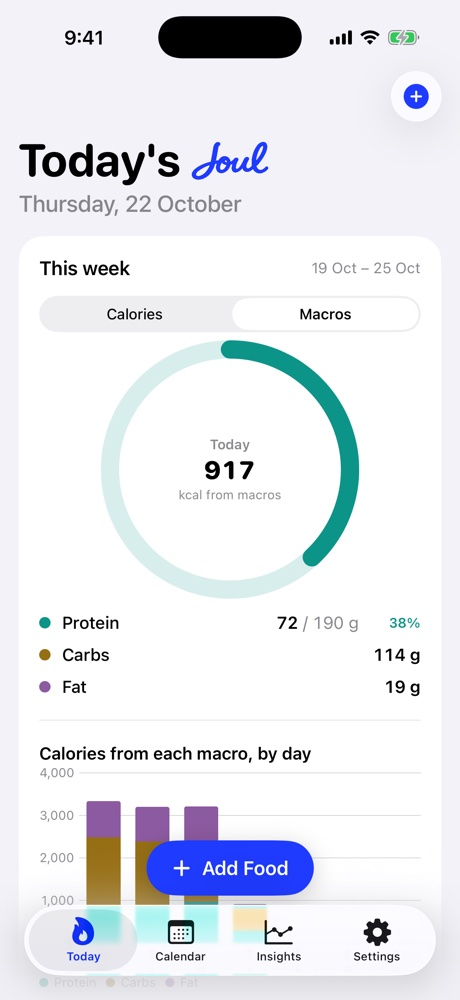
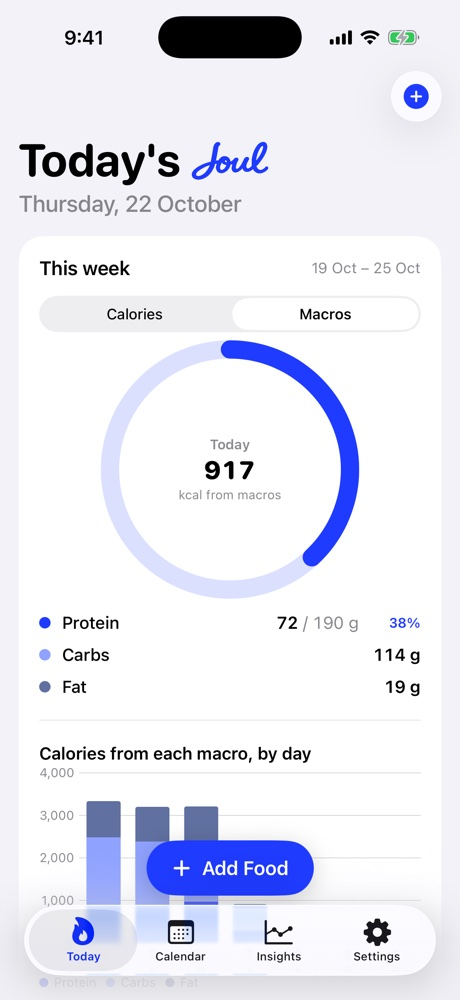
Prices in USD; macros screenshot with the new blue palette

diff --git a/index.html b/index.html
@@ -12,7 +12,7 @@
 <link rel="preconnect" href="https://fonts.googleapis.com">
 <link rel="preconnect" href="https://fonts.gstatic.com" crossorigin>
 <link href="https://fonts.googleapis.com/css2?family=Caveat:wght@600;700&family=Geist:wght@400;500;600;700&display=swap" rel="stylesheet">
-<link rel="stylesheet" href="style.css?v=19">
+<link rel="stylesheet" href="style.css?v=20">
 <script>document.documentElement.classList.add('js')</script>
 </head>
 <body>
@@ -106,7 +106,7 @@
         <p>Flip the weekly view from calories to macros. Rings show how much protein, carbs and fat you have eaten today against your targets, and a bar for each day of the week stacks them by calories.</p>
         <a class="pill pill-dark" href="#waitlist">Get early access</a>
       </div>
-      <div class="panel"><div class="shot"><figure class="iphone"><img src="assets/screens/macros.jpg?v=1" alt="The macros view: a ring for protein against its target today, grams of protein, carbs and fat, and a stacked bar for each day of the week" loading="lazy" width="1000" height="2174"></figure><span class="note r " style="top:33%">Protein, carbs and fat against your targets<svg class="arr" viewBox="0 0 64 40" aria-hidden="true"><path d="M62 6 C 44 2, 22 10, 6 34 M6 34 L5 22 M6 34 L17 30"/></svg></span></div></div>
+      <div class="panel"><div class="shot"><figure class="iphone"><img src="assets/screens/macros.jpg?v=2" alt="The macros view: a ring for protein against its target today, grams of protein, carbs and fat, and a stacked bar for each day of the week" loading="lazy" width="1000" height="2174"></figure><span class="note r " style="top:33%">Protein, carbs and fat against your targets<svg class="arr" viewBox="0 0 64 40" aria-hidden="true"><path d="M62 6 C 44 2, 22 10, 6 34 M6 34 L5 22 M6 34 L17 30"/></svg></span></div></div>
     </article>
     <p class="fine center">Screens from the Joul app, shown with sample data.</p>
   </section>
@@ -149,11 +149,11 @@
       <article class="plan reveal">
         <h3>After the free trial</h3>
         <div class="tier">
-          <div><p class="price">$42 <small>MXN / month</small></p><p class="price-alt">Billed annually at $499 MXN</p></div>
+          <div><p class="price">$2.08 <small>USD / month</small></p><p class="price-alt">Billed annually at $24.99 USD</p></div>
           <span class="badge badge-inline">Save 30%</span>
         </div>
         <div class="tier">
-          <div><p class="price">$59 <small>MXN / month</small></p><p class="price-alt">Cancel any time</p></div>
+          <div><p class="price">$2.99 <small>USD / month</small></p><p class="price-alt">Cancel any time</p></div>
         </div>
         <a class="pill pill-dark plan-cta" href="#waitlist">Try for free</a>
       </article>
@@ -170,12 +170,12 @@
         <li>Extra free days for sharing Joul and inviting friends</li>
       </ul>
     </div>
-    <p class="fine center">Prices are planned launch prices in Mexican pesos and may change. AI features have fair-use limits.</p>
+    <p class="fine center">Prices are planned launch prices in US dollars and may change. AI features have fair-use limits.</p>
   </section>
 
   <section class="faq wrap" id="faq">
     <h2 class="section-title reveal">Questions, answered.</h2>
-    <details><summary>How does the free trial work?</summary><p>Every new account starts with a free trial of full access, photo logging included, with no card needed. The trial is a week, and you can earn more free days by sharing Joul and inviting friends. After that you keep Joul with a subscription: 499 pesos a year or 59 pesos a month. When you subscribe in the app, Apple may also offer a further free week: you add a payment method, nothing is charged until that week ends, and you can cancel any time before then in your Apple ID settings.</p></details>
+    <details><summary>How does the free trial work?</summary><p>Every new account starts with a free trial of full access, photo logging included, with no card needed. The trial is a week, and you can earn more free days by sharing Joul and inviting friends. After that you keep Joul with a subscription: $24.99 a year or $2.99 a month. When you subscribe in the app, Apple may also offer a further free week: you add a payment method, nothing is charged until that week ends, and you can cancel any time before then in your Apple ID settings.</p></details>
     <details><summary>Can I earn more free time?</summary><p>We're building ways to earn extra days by sharing your week of meals or inviting friends who also use WHOOP. They aren't live yet, and we'll explain the rules in the app when they are.</p></details>
     <details><summary>Do I need a WHOOP?</summary><p>Yes. Joul's calories-burned number comes from WHOOP, so a WHOOP membership and the WHOOP app are required for the core experience.</p></details>
     <details><summary>Is Joul on Android?</summary><p>Not at the moment. Joul is being built for iPhone first.</p></details>

diff --git a/terms.html b/terms.html
@@ -32,7 +32,7 @@
 
 <h2>5. Subscriptions</h2>
 <ul>
-<li>New accounts get a seven-day free trial with full access and no card. After the trial, Joul requires a paid subscription, planned at 499 Mexican pesos per year or 59 Mexican pesos per month.</li>
+<li>New accounts get a seven-day free trial with full access and no card. After the trial, Joul requires a paid subscription, planned at US$24.99 per year or US$2.99 per month.</li>
 <li>When you subscribe, Apple may offer a further free trial week. You add a payment method to Apple, nothing is charged until the trial ends, and you can cancel before then in your Apple ID settings. The price and length of any trial are shown before you confirm.</li>
 <li>You can also earn extra free days: 7 days for taking part in our "Empty plates, happy bellies" campaign, 7 more for uploading a screenshot of a post that shows food photos and tags Joul, and 14 days (up to two times while you aren't subscribed) when a friend you invite with your code connects WHOOP and logs food on three different days. Each reward is given once. We check screenshots automatically and may refuse or take back days earned through fake, reused or automated activity. Free days have no cash value.</li>
 <li>Subscriptions are billed through your Apple ID and renew automatically unless cancelled at least 24 hours before the current period ends. Manage or cancel in your Apple ID settings. Refunds are handled by Apple under its policies.</li>
